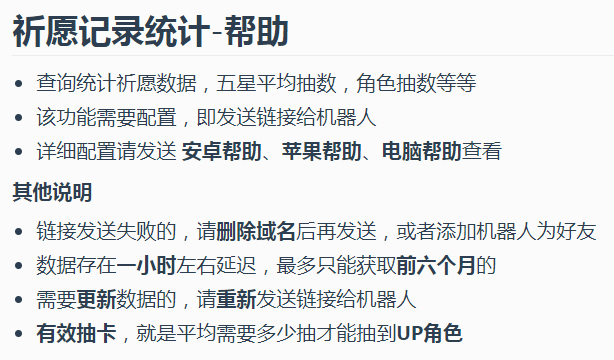
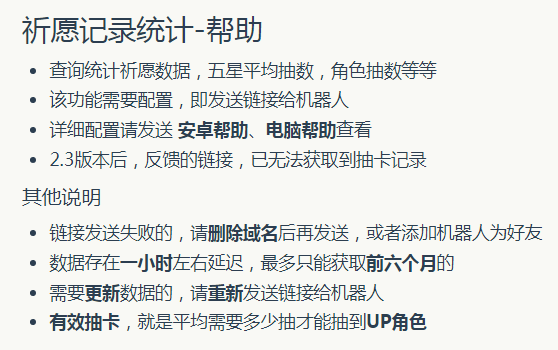
电脑端抽卡记录链接改成日志文件获取

Changed region(s): [[0.0, 0.1714, 0.9749, 0.9714], [0.0, 0.0286, 0.4875, 0.1429]]

diff --git a/lib/app/gachaLog.js b/lib/app/gachaLog.js
@@ -1,6 +1,8 @@
 import { segment } from "oicq";
 import fetch from "node-fetch";
 import fs from "fs";
+import { pipeline } from "stream";
+import { promisify } from "util";
 import { render } from "../render.js";
 import { abbr } from "../../config/genshin/roleId.js";
 
@@ -52,18 +54,20 @@ async function bing(e) {
 
   await redis.set(key + e.user_id, params.authkey, { EX: 86400 });
 
-  e.reply("链接发送成功");
+  if (!e.file) {
+    e.reply("链接发送成功");
+  }
 
   e.isBing = true;
 
   e.msg = "角色记录";
   await getLog(e);
 
-  await sleep(1000);
+  await sleep(500);
   e.msg = "常驻记录";
   await getLog(e);
 
-  await sleep(1000);
+  await sleep(500);
   e.msg = "武器记录";
   await getLog(e);
 
@@ -371,11 +375,11 @@ function analyse(all) {
     fiveArr[fiveArr.length - 1].num = fiveLogNum;
 
     //删除未知五星
-    for(let i in fiveArr){
-      if(fiveArr[i].name=="未知"){
+    for (let i in fiveArr) {
+      if (fiveArr[i].name == "未知") {
         fiveArr.splice(i, 1);
         fiveNum--;
-        allNum = allNum-fiveArr[i].num;
+        allNum = allNum - fiveArr[i].num;
       }
     }
   }
@@ -391,7 +395,7 @@ function analyse(all) {
   four = four.sort(function (a, b) {
     return b.num - a.num;
   });
-  
+
   let fiveAvg = ((allNum - noFiveNum) / fiveNum).toFixed(2);
   let fourAvg = ((allNum - noFourNum) / fourNum).toFixed(2);
   //有效抽卡
@@ -500,10 +504,10 @@ async function getApiAll(ids, authkey, type, page = 1, end_id = 0) {
   }
   page++;
 
-  if(page%3==0){
-    await sleep(500)
-  }else{
-    await sleep(200)
+  if (page % 3 == 0) {
+    await sleep(500);
+  } else {
+    await sleep(200);
   }
 
   let res2 = await getApiAll(ids, authkey, type, page, end_id);
@@ -561,7 +565,11 @@ function help(e) {
 function helpPort(e) {
   let msg = e.msg.replace(/#|帮助/g, "");
 
-  e.reply(segment.image(`file:///${_path}/resources/logHelp/记录帮助-${msg}.png`));
+  if (msg == "苹果") {
+    e.reply("苹果手机暂不支持");
+  }else{
+    e.reply(segment.image(`file:///${_path}/resources/logHelp/记录帮助-${msg}.png`));
+  }
 
   return true;
 }
@@ -582,7 +590,54 @@ async function sendHelp(e) {
 }
 
 function sleep(ms) {
-  return new Promise(resolve=>setTimeout(resolve, ms))
+  return new Promise((resolve) => setTimeout(resolve, ms));
 }
 
-export { bing, getLog, help, helpPort };
+async function bingFile(e) {
+  if (!e.isPrivate) {
+    return;
+  }
+
+  if (!e.file || !e.file.name.includes("txt")) {
+    return;
+  }
+
+  let path = "data/file/";
+
+  if (!fs.existsSync(path)) {
+    fs.mkdirSync(path);
+  }
+  if (!fs.existsSync(`${path}output_log/`)) {
+    fs.mkdirSync(`${path}output_log/`);
+  }
+
+  let textPath = `${path}output_log/${e.user_id}.txt`;
+
+  //获取文件下载链接
+  let fileUrl = await e.friend.getFileUrl(e.file.fid);
+  //下载output_log.txt文件
+  const response = await fetch(fileUrl);
+  const streamPipeline = promisify(pipeline);
+  await streamPipeline(response.body, fs.createWriteStream(textPath));
+
+  //读取txt文件
+  let txt = fs.readFileSync(textPath, "utf-8");
+  let url = txt.match(/authkey_ver=(.*)hk4e_cn/);
+
+  if (!url) {
+    e.reply("请先游戏里打开抽卡记录页面，再发送文件");
+    return true;
+  }
+
+  e.reply("日志文件发送成功");
+
+  //删除文件
+  fs.unlink(textPath, (err) => {});
+
+  e.msg = url[0];
+  await bing(e);
+
+  return true;
+}
+
+export { bing, bingFile, getLog, help, helpPort };

diff --git a/config/system/command.js b/config/system/command.js
@@ -13,6 +13,7 @@ let command = {
   },
   gachaLog:{
     bing:"(.*)authkey_ver(.*)",
+    bingFile:"noCheck",
     getLog:"^#*(抽卡|角色|武器|常驻|up)(记录|祈愿)$",
     help:"^#*(记录帮助|抽卡帮助)$",
     helpPort:"^#*(安卓帮助|苹果帮助|电脑帮助)$",

diff --git a/lib/dealMsg.js b/lib/dealMsg.js
@@ -32,6 +32,9 @@ async function dealMsg(e) {
       case "at":
         e.at = val.qq;
         break;
+      case "file":
+        e.file = {name:val.name,fid:val.fid};
+        break;
     }
   }
 

diff --git a/resources/logHelp/记录帮助.md b/resources/logHelp/记录帮助.md
@@ -1,7 +1,8 @@
 ## 祈愿记录统计-帮助
 - 查询统计祈愿数据，五星平均抽数，角色抽数等等
 - 该功能需要配置，即发送链接给机器人
-- 详细配置请发送 **安卓帮助**、**苹果帮助**、**电脑帮助**查看
+- 详细配置请发送 **安卓帮助**、**电脑帮助**查看
+- 2.3版本后，反馈的链接，已无法获取到抽卡记录
 
 #### 其他说明
 - 链接发送失败的，请**删除域名**后再发送，或者添加机器人为好友
@@ -9,18 +10,15 @@
 - 需要**更新**数据的，请**重新**发送链接给机器人
 - **有效抽卡**，就是平均需要多少抽才能抽到**UP角色**
 
-#### 安卓
+#### 记录帮助-安卓
 - 打开游戏-祈愿-打开历史记录页面
 - 断开**wifi**或者**数据连接**，点击右上角**刷新**按钮
 - 此时页面会无法打开，显示一个链接
 - 然后长按**全选**，复制页面所有内容，**私聊**发送给机器人
 
-#### 苹果
-- 打开菜单，点击反馈，发送 **修改密码**
-- 在回复的列表中选择 **怎么更改密码？**
-- 点击蓝色文本链接跳转浏览器
-- 复制刚打开的网页链接，**私聊**发送给机器人
-
-#### 电脑
-- ESC打开菜单，点击**反馈**，然后会跳转一个网页
-- 复制网页链接，**私聊**发送给机器人
+#### 记录帮助-电脑
+- 打开游戏祈愿-历史记录页面，生成日志文件(自动生成)
+- 然后找到日志文件， AppData为隐藏文件夹
+`路径: C:\Users(用户)\你的用户名\AppData\LocalLow\miHoYo\原神\output.log.txt`
+- 最后将日志文件**私聊**发送给机器人，无法私聊的请**加好友**
+- 提示日志被其他程序占用，无法发送的，可以将日志复制粘贴-份副本,将副本发送
